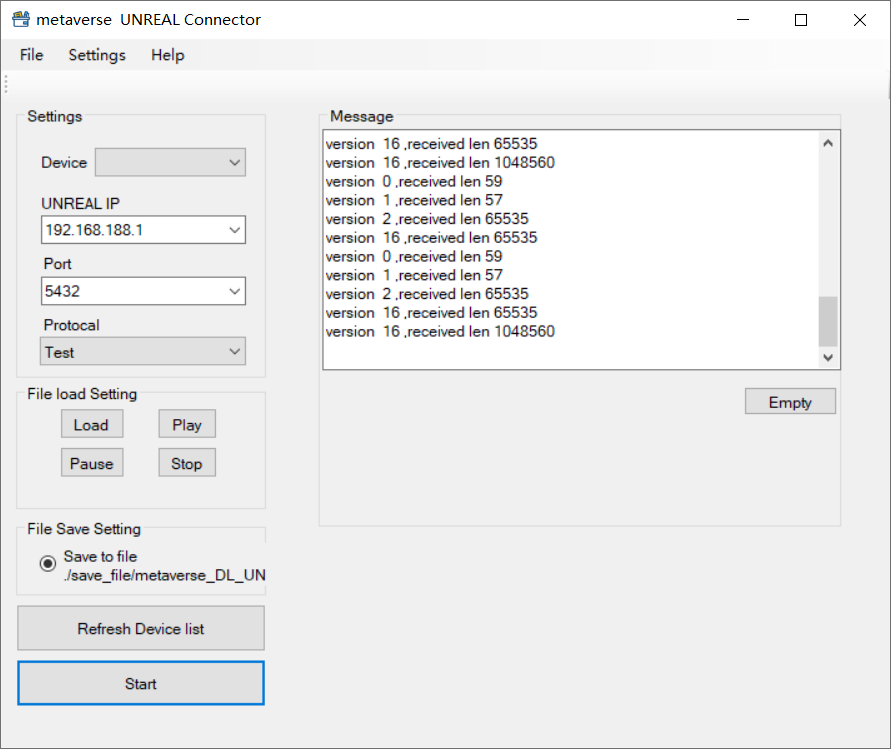
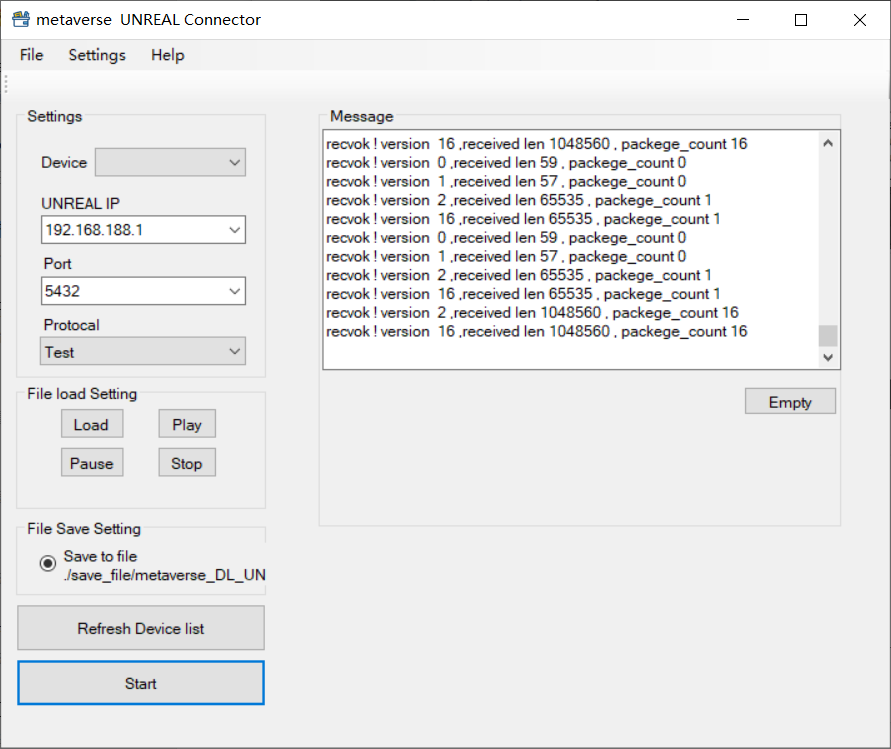
fix data_len bug

diff --git a/SerialCom/metaverse_protocal.cs b/SerialCom/metaverse_protocal.cs
@@ -36,6 +36,7 @@ namespace SerialCom
         private UInt16 meta_api_extend_idx = 0;
         private List<byte> meta_api_buffer = new List<byte>();
         private int total_package_count = 0;
+        private int total_packege_len2 = 0;
 
         private string last_save_data;
         private long last_time_ticks = 0;
@@ -77,10 +78,12 @@ namespace SerialCom
         {
             Byte[] data_buf_all=new Byte[1];
             int total_packege_len = meta_data_len;
+            
 
             if (version < 2)
             {
                 data_buf_all = meta_api_data_buf;
+                total_packege_len2 = meta_data_len;
             }
             else
             {
@@ -89,6 +92,7 @@ namespace SerialCom
                     meta_api_buffer.AddRange(meta_api_data_buf);
                     data_buf_all = meta_api_buffer.ToArray();
                     meta_api_buffer.Clear();
+                    total_packege_len2 += meta_data_len;
                     total_packege_len = data_buf_all.Length;
                     total_package_count++;
                     /*
@@ -106,6 +110,7 @@ namespace SerialCom
                 else
                 {
                     total_package_count++;
+                    total_packege_len2 += meta_data_len;
                     meta_api_buffer.AddRange(meta_api_data_buf);
                     return 0;
                 }
@@ -118,11 +123,11 @@ namespace SerialCom
                 var spritfstr = "";
                 if ( recieve_ok )
                 {
-                   spritfstr = String.Format(@"recvok ! version  {0:D} ,received len {1:D} , packege_count {2:D}", version, total_packege_len, total_package_count);
+                   spritfstr = String.Format(@"recvok ! version  {0:D} ,received len {1:D} , packege_count {2:D}", version, total_packege_len2, total_package_count);
                 }
                 else
                 {
-                    spritfstr = String.Format(@"some package lost ! version  {0:D} ,received len {1:D} , packege_count {2:D}", version, total_packege_len, total_package_count);
+                    spritfstr = String.Format(@"some package lost ! version  {0:D} ,received len {1:D} , packege_count {2:D}", version, total_packege_len2, total_package_count);
                 }
                 mainform.textBoxReceive.Text += spritfstr + "\r\n"; ;
                 mainform.textBoxReceive.SelectionStart = mainform.textBoxReceive.Text.Length;
@@ -131,6 +136,7 @@ namespace SerialCom
 
             save_packet();
             meta_api_buffer = new List<byte>();
+            total_packege_len2 = 0;
             total_package_count = 0;
             return 0;
         }
@@ -152,6 +158,10 @@ namespace SerialCom
         {
             Byte[] api_buf;
             UInt16 max_payload = 65535 - 22;
+            if(version == 2)
+            {
+                max_payload = 4095 - 13;
+            }
             Byte[] api_buf_all = new byte[(data_len/ max_payload+1) *65535];
             int api_buf_all_idx = 0;
             List<byte> data_buffer = new List<byte>(data_buf.Length);
@@ -161,6 +171,7 @@ namespace SerialCom
             
             UInt16 SEQ = 0x0000;
             int i = 0;
+            int payload_len_all = 0;
             for (;i< data_len; i+= max_payload)
             {
                 UInt16 payload_len = max_payload;
@@ -169,6 +180,7 @@ namespace SerialCom
                     SEQ |= 0x8000;
                     payload_len = (UInt16)(data_len - i);
                 }
+                payload_len_all += payload_len;
                 Byte[] data_buf2 = data_buffer.Skip(i).ToArray();
                 /*Byte[] data_buf2 = new byte[payload_len];//data_buffer.Skip(i).ToArray();
                 for(int j=0;j< payload_len; j++)
